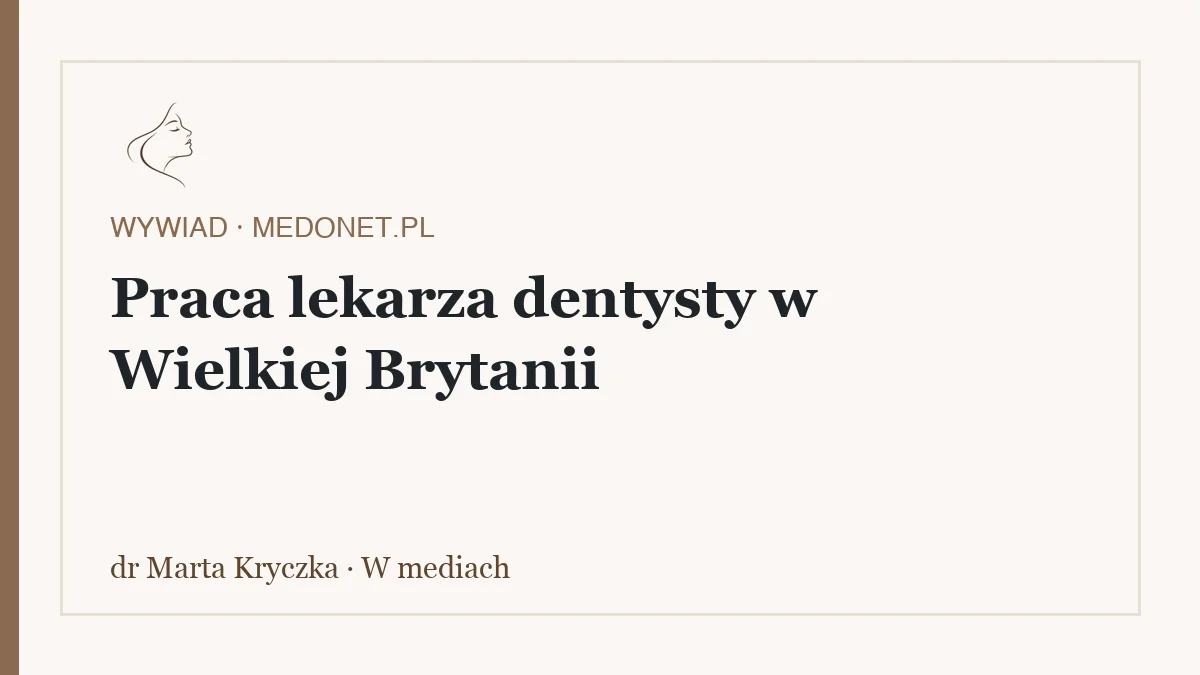
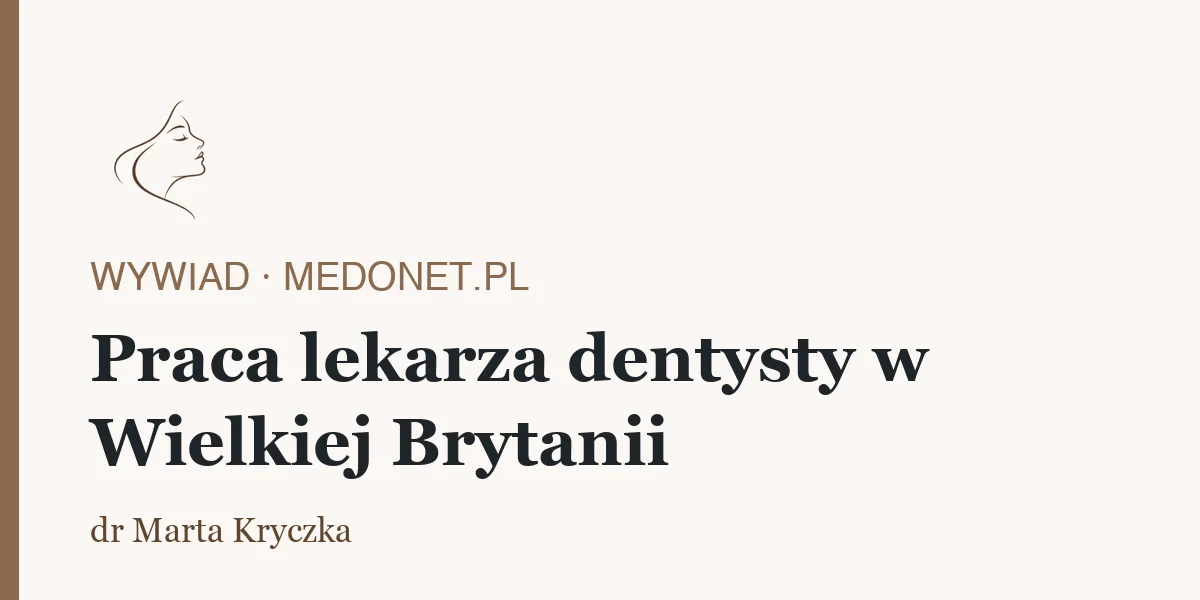
O mnie: logotypy instytucji; Aktualności: poprawione grafiki W mediach

diff --git a/web/src/styles/global.css b/web/src/styles/global.css
@@ -70,7 +70,7 @@ nav a:hover, nav a[aria-current='page'] { color: var(--accent); }
 img.portrait { padding: 0; background: none; width: 100%; height: auto; object-fit: cover; display: block; }
 .card-img {
   width: calc(100% + 3rem); margin: -1.5rem -1.5rem 1.2rem;
-  height: 130px; object-fit: cover; display: block;
+  aspect-ratio: 2 / 1; height: auto; object-fit: cover; object-position: center top; display: block;
   border-radius: var(--radius) var(--radius) 0 0;
 }
 .page-head {
@@ -132,3 +132,5 @@ img.portrait { padding: 0; background: none; width: 100%; height: auto; object-f
 
 .qual-icon { display: inline-flex; align-items: center; justify-content: center; width: 52px; height: 52px; border-radius: 50%; background: var(--surface); border: 1px solid var(--line); color: var(--accent); margin-bottom: 1rem; }
 .section.alt .qual-icon { background: var(--surface); }
+.card:has(.qual-logo) { display: flex; flex-direction: column; }
+.qual-logo { margin-top: auto; padding-top: 1.2rem; height: 3.6rem; width: auto; max-width: 100%; object-fit: contain; object-position: left bottom; align-self: flex-start; box-sizing: content-box; }
